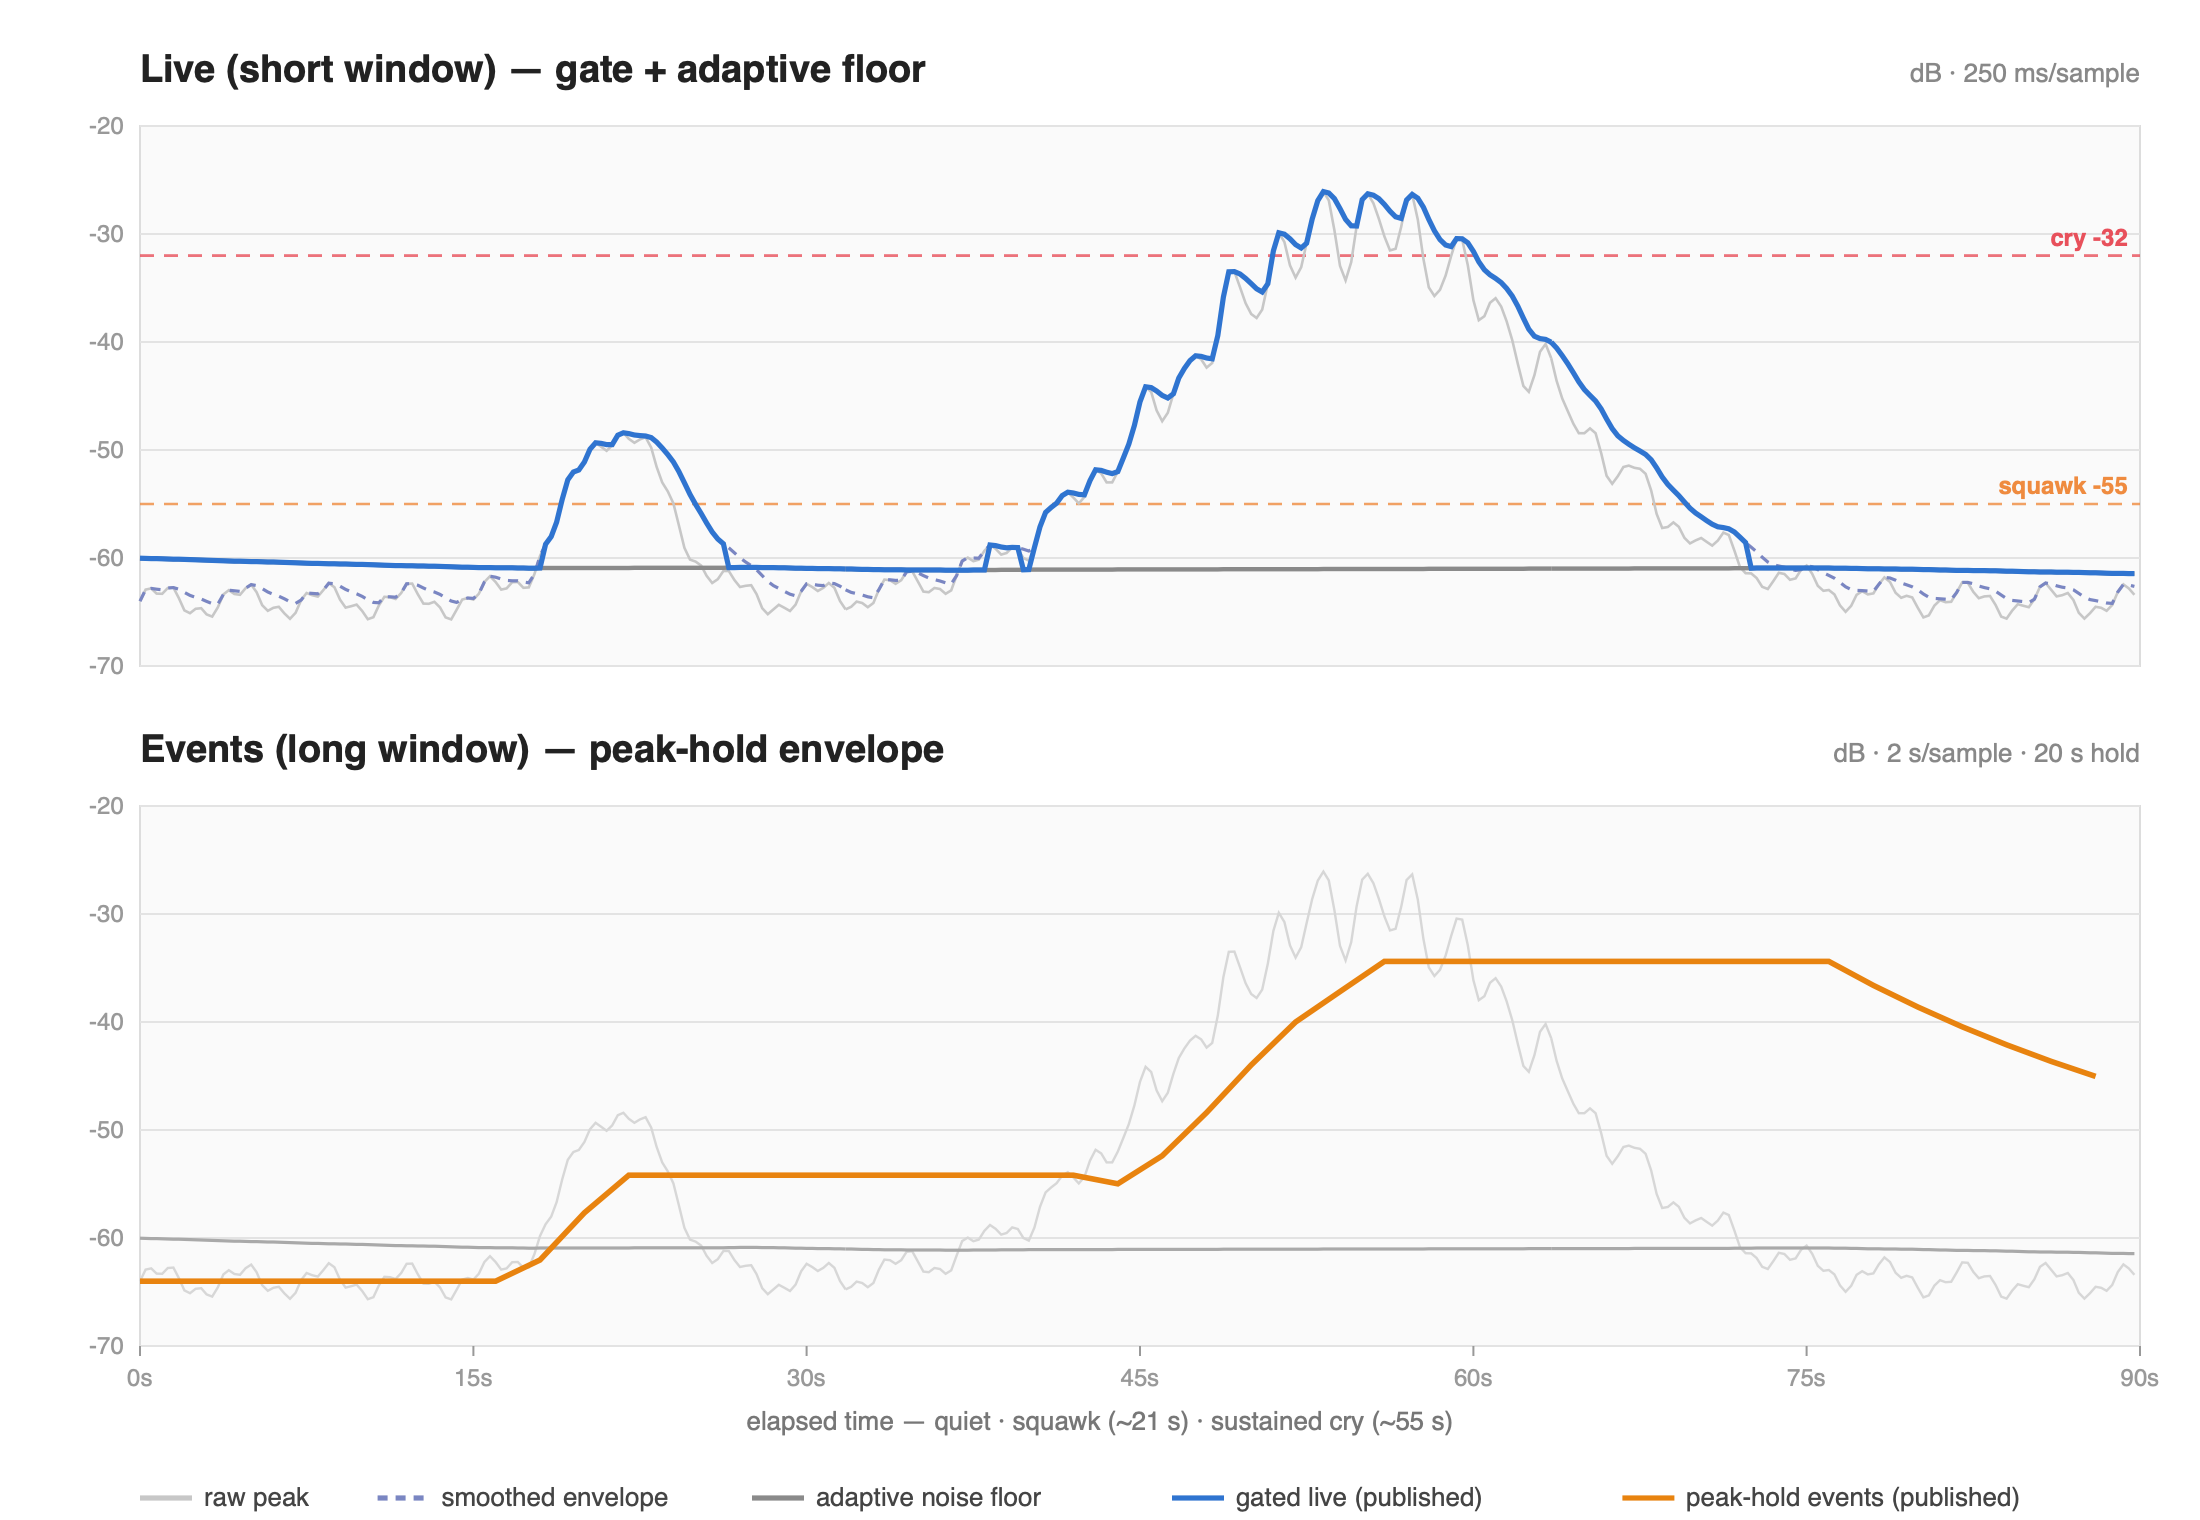
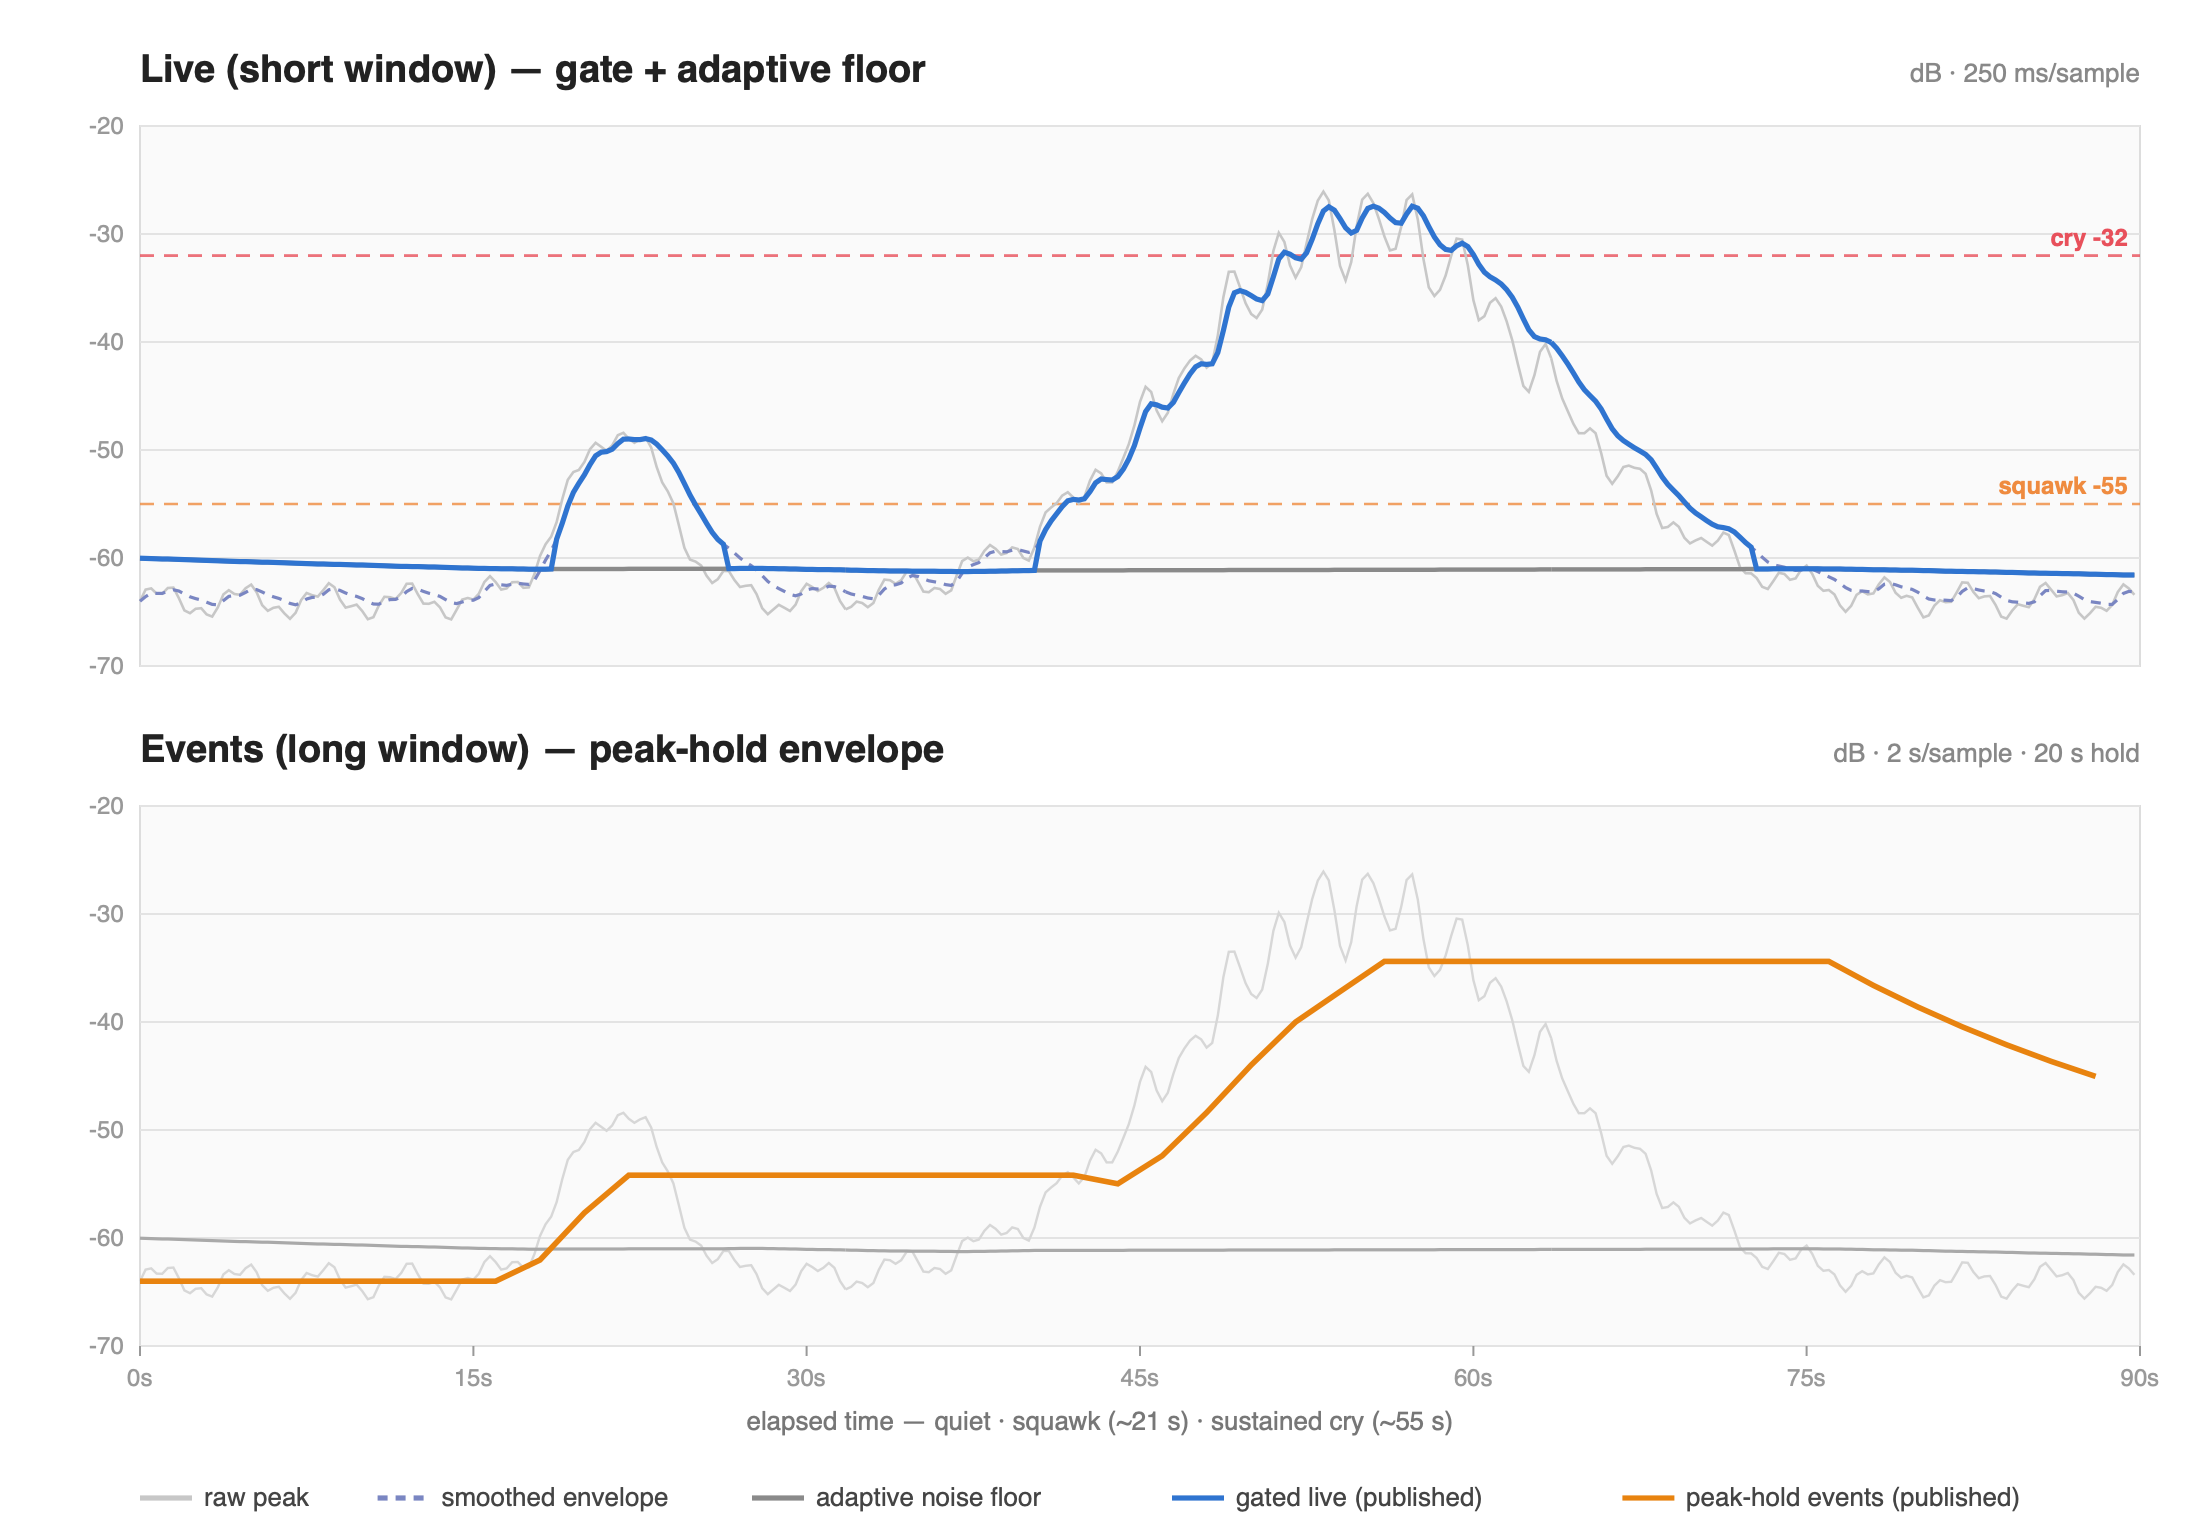
feat: smooth live trace via attack_coeff; simplify wiring diagram
- audio_sentinel: add attack_coeff knob — fast-attack EMA on the live envelope.
  1.0 = legacy instant attack (default, back-compat); sentinel.yaml sets 0.4 so a
  sustained cry still reaches full level in ~1 s but single-sample blips no longer
  spike the trace. Alarms trigger on the raw peak, so this adds no alarm latency.
  Wired through .h/.cpp/__init__.py; logged in dump_config.
- wiring diagram: reorder mic pins so every wire is one nested down-then-right run
  with no crossings; draw VDD + L/R as one red 3.3V net (L/R taps VDD) instead of
  two colours meeting at a junction.
- filtering.png: regenerate with attack_coeff 0.4 so the figure matches firmware.
- bump pinned ref v1.1.2 -> v1.1.3 (audio-sentinel.yaml, README); CLAUDE.md knobs.

diff --git a/audio-sentinel/components/audio_sentinel/audio_sentinel.cpp b/audio-sentinel/components/audio_sentinel/audio_sentinel.cpp
@@ -154,11 +154,14 @@ void AudioSentinel::live_tick_() {
   if (this->cry_binary_sensor_ != nullptr && this->cry_number_ != nullptr)
     this->cry_binary_sensor_->publish_state(this->hysteresis_(v, this->cry_number_->state, this->cry_on_));
 
-  // Smooth envelope: instant attack, moderate release.
+  // Smooth envelope: fast attack, moderate release. attack_coeff_ == 1.0 is the
+  // legacy instant attack; < 1.0 eases the rise so single-sample blips don't
+  // spike the live trace, while a sustained cry still ramps to full in ~1 s.
+  // (Alarms trigger on raw v above, so this never adds alarm latency.)
   if (std::isnan(this->env_))
     this->env_ = v;
   if (v > this->env_) {
-    this->env_ = v;  // instant attack — cry shows immediately
+    this->env_ += this->attack_coeff_ * (v - this->env_);
   } else {
     this->env_ += this->release_coeff_ * (v - this->env_);
   }
@@ -240,6 +243,7 @@ void AudioSentinel::dump_config() {
                 (unsigned) this->events_interval_);
   ESP_LOGCONFIG(TAG, "  initial floor: %.1f dB, drift: %.4f dB/tick, margin: %.1f dB", this->initial_floor_db_,
                 this->floor_drift_db_, this->margin_db_);
+  ESP_LOGCONFIG(TAG, "  attack coeff: %.2f, release coeff: %.2f", this->attack_coeff_, this->release_coeff_);
   ESP_LOGCONFIG(TAG, "  hysteresis: %.1f dB, hold: %u ms, glide: %.2f, attack: %.1f dB", this->hysteresis_db_,
                 (unsigned) this->hold_ms_, this->glide_, this->attack_db_);
   ESP_LOGCONFIG(TAG, "  ring buffer: %d samples, /api/audio_buffer %s", RING_SIZE,

diff --git a/audio-sentinel/components/audio_sentinel/__init__.py b/audio-sentinel/components/audio_sentinel/__init__.py
@@ -27,6 +27,7 @@ CONF_MARGIN_DB = "margin_db"
 CONF_HYSTERESIS_DB = "hysteresis_db"
 CONF_FLOOR_ALPHA = "floor_alpha"
 CONF_RELEASE_COEFF = "release_coeff"
+CONF_ATTACK_COEFF = "attack_coeff"
 CONF_HOLD = "hold"
 CONF_GLIDE = "glide"
 CONF_ATTACK_DB = "attack_db"
@@ -50,6 +51,7 @@ CONFIG_SCHEMA = cv.Schema(
         cv.Optional(CONF_HYSTERESIS_DB, default=1.5): cv.float_,
         cv.Optional(CONF_FLOOR_ALPHA, default=0.005): cv.float_,
         cv.Optional(CONF_RELEASE_COEFF, default=0.15): cv.float_,
+        cv.Optional(CONF_ATTACK_COEFF, default=1.0): cv.float_,
         cv.Optional(CONF_HOLD, default="20s"): cv.positive_time_period_milliseconds,
         cv.Optional(CONF_GLIDE, default=0.10): cv.float_,
         cv.Optional(CONF_ATTACK_DB, default=0.5): cv.float_,
@@ -86,6 +88,7 @@ async def to_code(config):
     cg.add(var.set_hysteresis_db(config[CONF_HYSTERESIS_DB]))
     cg.add(var.set_floor_alpha(config[CONF_FLOOR_ALPHA]))
     cg.add(var.set_release_coeff(config[CONF_RELEASE_COEFF]))
+    cg.add(var.set_attack_coeff(config[CONF_ATTACK_COEFF]))
     cg.add(var.set_hold_ms(config[CONF_HOLD].total_milliseconds))
     cg.add(var.set_glide(config[CONF_GLIDE]))
     cg.add(var.set_attack_db(config[CONF_ATTACK_DB]))

diff --git a/audio-sentinel/components/audio_sentinel/audio_sentinel.h b/audio-sentinel/components/audio_sentinel/audio_sentinel.h
@@ -66,6 +66,7 @@ class AudioSentinel : public Component {
   void set_hysteresis_db(float v) { this->hysteresis_db_ = v; }
   void set_floor_alpha(float v) { this->floor_alpha_ = v; }
   void set_release_coeff(float v) { this->release_coeff_ = v; }
+  void set_attack_coeff(float v) { this->attack_coeff_ = v; }
   void set_hold_ms(uint32_t v) { this->hold_ms_ = v; }
   void set_glide(float v) { this->glide_ = v; }
   void set_attack_db(float v) { this->attack_db_ = v; }
@@ -118,6 +119,7 @@ class AudioSentinel : public Component {
   float hysteresis_db_{1.5f};
   float floor_alpha_{0.005f};
   float release_coeff_{0.15f};
+  float attack_coeff_{1.0f};  // live envelope attack EMA; 1.0 = instant (legacy)
   uint32_t hold_ms_{20000};
   float glide_{0.10f};
   float attack_db_{0.5f};

diff --git a/README.md b/README.md
@@ -43,9 +43,12 @@ a sustained *cry* (~55 s):
 
 ![Audio Sentinel DSP pipeline — top: live short-window with raw peak, smoothed envelope, adaptive noise floor and gated output plus squawk/cry thresholds; bottom: events long-window peak-hold envelope](_docs/filtering.png)
 
-1. **Smoothed envelope** — *instant attack, slow release* (`release_coeff` = 0.15).
-   A rise is taken immediately (a cry must show up now), but the fall is eased, so
-   the trace doesn't flicker between samples.
+1. **Smoothed envelope** — *fast attack, slow release* (`attack_coeff` = 0.4,
+   `release_coeff` = 0.15). A sustained rise ramps to full level in ~1 s — still
+   responsive — while single-sample blips are eased instead of spiking the trace,
+   and the fall is gentle so it doesn't flicker. (Set `attack_coeff: 1.0` for the
+   legacy instant attack.) The **squawk/cry alarms read the *raw* peak, not this
+   envelope**, so smoothing the trace never adds alarm latency.
 2. **Adaptive noise floor** (grey) — a gated EMA. While the envelope sits within
    `margin_db` (2 dB) of the floor, the floor tracks ambient (`floor_alpha` slow);
    once an event lifts the signal clear, floor tracking is suspended and only a tiny
@@ -135,8 +138,8 @@ repo over `github://` (pinned to a tag) and fills in its own secrets. Nothing un
 ```
 
 1. Add **`audio-sentinel.yaml`** to the dir (copy it from this repo / the
-   [v1.1.2 release](https://github.com/dude84/esphome-audio-sentinel/releases)).
-   It already points at `github://dude84/esphome-audio-sentinel@v1.1.2`.
+   [v1.1.3 release](https://github.com/dude84/esphome-audio-sentinel/releases)).
+   It already points at `github://dude84/esphome-audio-sentinel@v1.1.3`.
 2. Create `secrets.yaml` next to it — `wifi_ssid`, `wifi_password`, `failsafe_ap_password`,
    `api_password`, `ota_password` (see `secrets.yaml.example`). The add-on uses
    `/config/esphome/secrets.yaml` for every device.
@@ -152,7 +155,7 @@ repo over `github://` (pinned to a tag) and fills in its own secrets. Nothing un
    # -> {"count":1200,"ms":250,"p":[...],"n":[...]}
    ```
 
-**Pinning & multiple devices.** Each device is pinned to a tag (`@v1.1.2`), so a push
+**Pinning & multiple devices.** Each device is pinned to a tag (`@v1.1.3`), so a push
 to `main` never changes a device until you bump its ref. For several devices, copy
 `audio-sentinel.yaml` per device (`nursery.yaml`, `bedroom.yaml`, …) and just change
 the `substitutions:` — they all share this one remote library.

diff --git a/CLAUDE.md b/CLAUDE.md
@@ -39,7 +39,9 @@ Data flow: `INMP441 → i2s_audio → sound_level (spl_db, spl_peak_db) → audi
 
 ### Tuning knobs (`audio_sentinel:` in `audio-sentinel/packages/sentinel.yaml`)
 `initial_floor_db`, `floor_drift_db`, `floor_alpha`, `margin_db` (noise floor) ·
-`release_coeff` (live envelope) · `hold`/`glide`/`attack_db` (events peak-hold) ·
+`attack_coeff`/`release_coeff` (live envelope — `attack_coeff` 1.0 = legacy instant
+attack, <1.0 smooths the live trace; alarms use raw peak so latency is unaffected) ·
+`hold`/`glide`/`attack_db` (events peak-hold) ·
 `hysteresis_db` (squawk/cry) · `live_interval`/`events_interval` (cadence).
 
 ## Contracts — don't break these